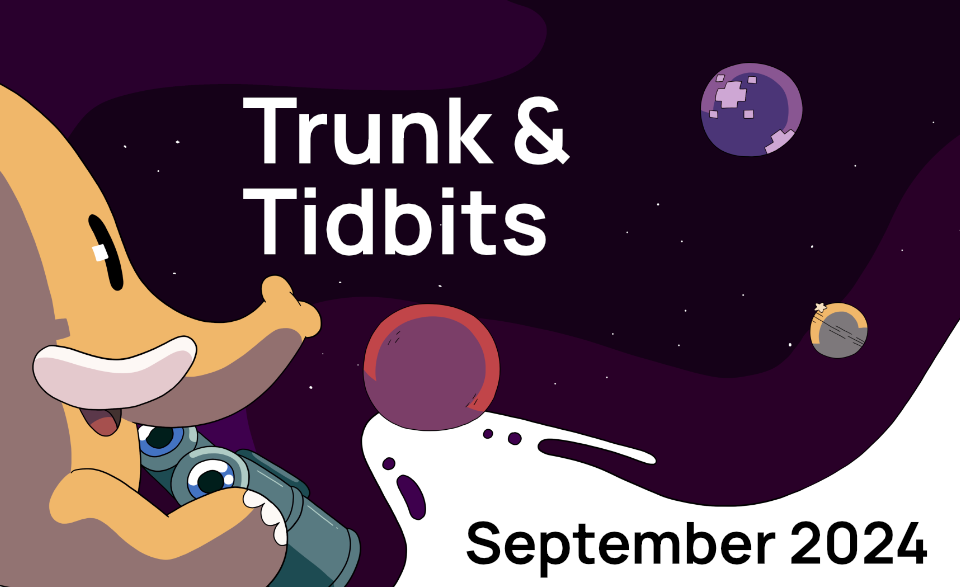
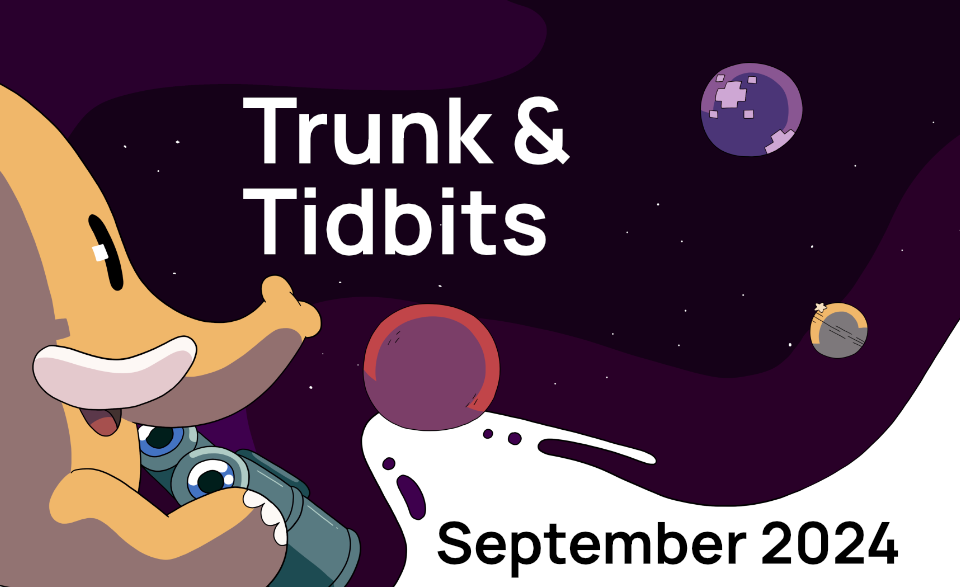
Cleanup hero images and titles on older posts.

Changed region(s): [[0.4375, 0.8893, 0.9688, 0.9813]]

diff --git a/content/posts/2025-01-10_trunk_and_tidbits-december_2024/index.md b/content/posts/2025-01-10_trunk_and_tidbits-december_2024/index.md
@@ -17,8 +17,6 @@ resources:
   src: hero.png
 ---
 
-# Trunk & Tidbits, December 2024
-
 A belated "happy 2025!" wish, from the Mastodon team (although, if you've been paying attention, there has been [some important news already](https://blog.joinmastodon.org/2025/01/the-people-should-own-the-town-square/) this month). We're a little later than planned in posting a summary of the work that happened during December, but let's get into it.
 
 Last month was a bit more quiet than usual, because most of the team took time off with friends and family over the annual holiday season.

diff --git a/content/posts/2024-11-12_trunk_and_tidbits-october_2024/index.md b/content/posts/2024-11-12_trunk_and_tidbits-october_2024/index.md
@@ -18,8 +18,6 @@ resources:
 draft: false
 ---
 
-# Trunk & Tidbits, October 2024
-
 Welcome back to our monthly engineering series. In October, our long-anticipated plushies got out into the wild (mostly in Europe, for now), and we were busy tuning the code and planning what's next.
 
 This is also a larger entry in our blog series, for updates from around our community.

diff --git a/content/posts/2024-09-09_trunk_and_tidbits-august_2024/index.md b/content/posts/2024-09-09_trunk_and_tidbits-august_2024/index.md
@@ -18,8 +18,6 @@ resources:
   src: hero.png
 ---
 
-# Trunk & Tidbits, August 2024
-
 It was a big month for the Mastodon team, with a lot of work going into getting the first beta release of version 4.3 ready - but that's not all that we've worked on. Here is our monthly update on what we've been up to.
 
 ## Releases

diff --git a/content/posts/2024-10-09_trunk_and_tidbits-september_2024/index.md b/content/posts/2024-10-09_trunk_and_tidbits-september_2024/index.md
@@ -18,8 +18,6 @@ resources:
 
 ---
 
-# Trunk & Tidbits, September 2024
-
 Hello, friends! It’s time for another installment of our engineering updates series. Here’s what’s been happening in the code this past month.
 
 ## Releases

diff --git a/content/posts/2024-08-09_trunk_and_tidbits-july_2024/index.md b/content/posts/2024-08-09_trunk_and_tidbits-july_2024/index.md
@@ -18,9 +18,6 @@ resources:
   src: hero.png
 ---
 
-
-# Trunk & Tidbits, July 2024
-
 Hey, friends - here is another instalment in our engineering updates series. This is what has been happening in the code lately.
 
 ## Team Updates

diff --git a/content/posts/2024-12-11_trunk_and_tidbits-november_2024/index.md b/content/posts/2024-12-11_trunk_and_tidbits-november_2024/index.md
@@ -17,8 +17,6 @@ resources:
   src: hero.png
 ---
 
-# Trunk & Tidbits, November 2024
-
 Hi everyone! We're back with our monthly engineering update, looking back at a busy November.
 
 ## General news
